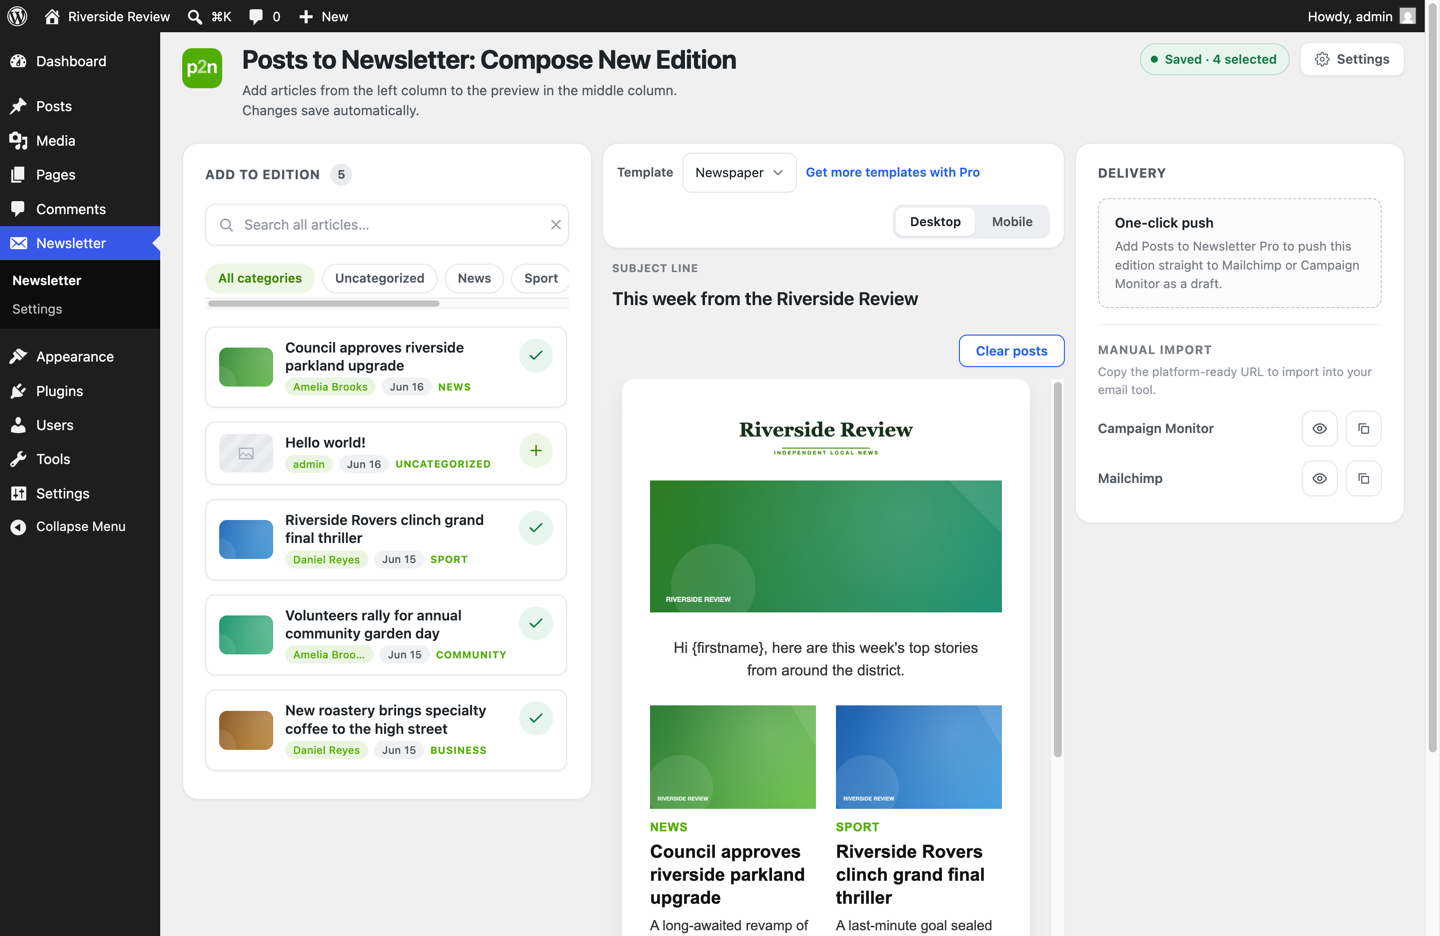
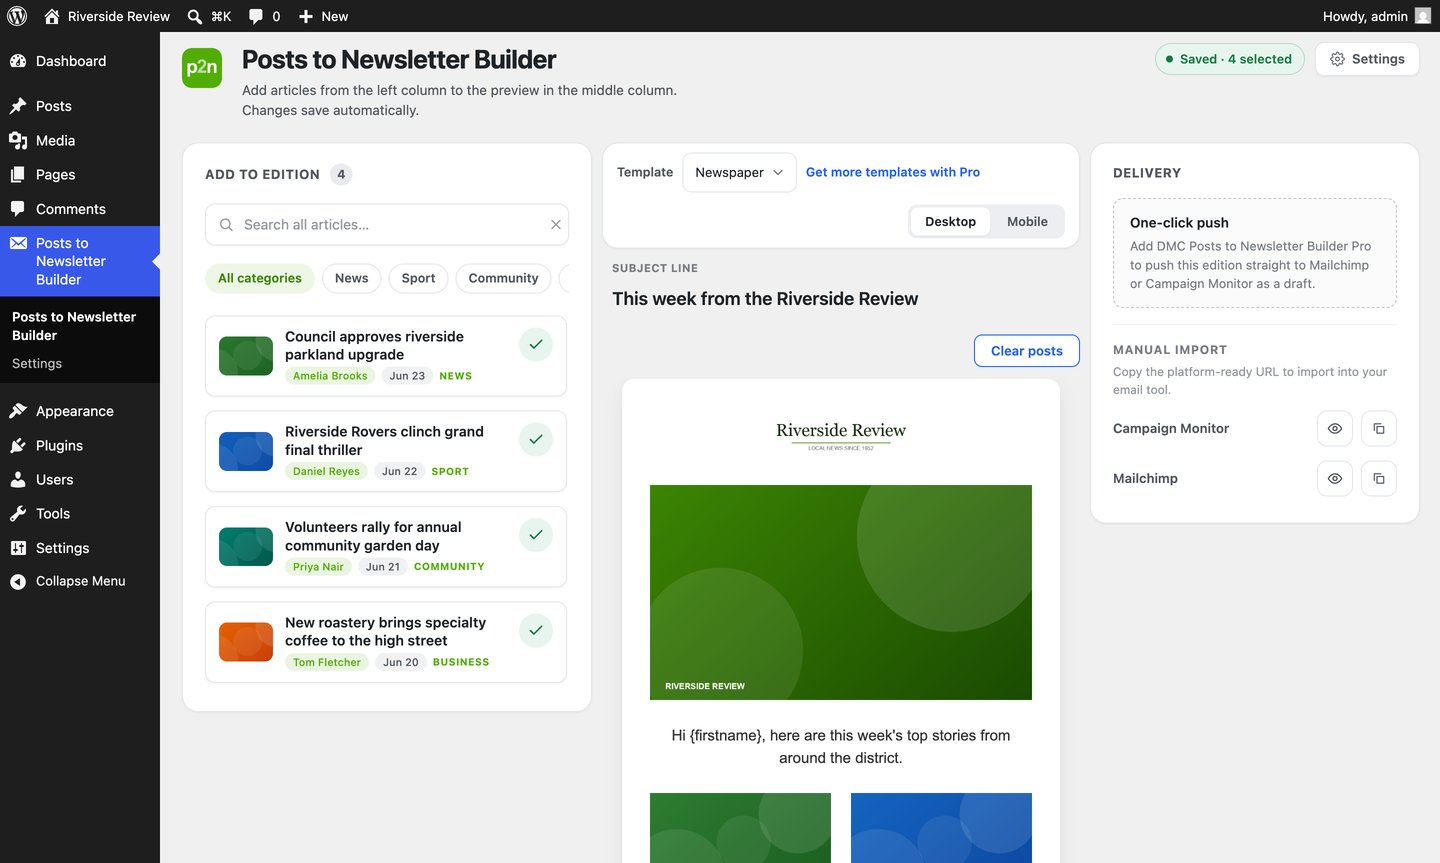
Release 1.0.1: header URIs, readme tidy, refreshed listing screenshots (#29)
- Bump version to 1.0.1 (header, VERSION const, readme Stable tag)
- Add Author URI and License URI to the plugin header
- Remove em dashes from readme.txt and README.md
- Add 1.0.1 changelog and upgrade notice entries
- Regenerate the three .org listing screenshots from the current UI
  (fictional demo content, no local host references)

diff --git a/posts-to-newsletter.php b/posts-to-newsletter.php
@@ -3,11 +3,13 @@
  * Plugin Name:       DMC Posts to Newsletter Builder
  * Plugin URI:        https://dmcweb.com.au
  * Description:       Hand-pick and order your posts into a branded HTML email, then preview a platform-ready newsletter to import into Mailchimp or Campaign Monitor.
- * Version:           1.0.0
+ * Version:           1.0.1
  * Requires at least: 6.0
  * Requires PHP:      8.0
  * Author:            DMC Web
+ * Author URI:        https://dmcweb.com.au
  * License:           GPL-2.0-or-later
+ * License URI:       https://www.gnu.org/licenses/gpl-2.0.html
  * Text Domain:       dmc-posts-to-newsletter-builder
  *
  * @package PostsToNewsletter
@@ -17,7 +19,7 @@ namespace PostsToNewsletter;
 
 defined( 'ABSPATH' ) || exit;
 
-const VERSION = '1.0.0';
+const VERSION = '1.0.1';
 
 define( 'PostsToNewsletter\\FILE', __FILE__ );
 define( 'PostsToNewsletter\\DIR', plugin_dir_path( __FILE__ ) );

diff --git a/README.md b/README.md
@@ -28,7 +28,7 @@ Copy this folder into `wp-content/plugins/` and activate it from the **Plugins**
 
 1. **Newsletter** (admin menu) → search and add articles, drag to order.
 2. **Newsletter → Settings** → set branding, sender details and the article image size.
-3. Copy a platform-ready preview URL (below) and import it into your email platform — or install **DMC Posts to Newsletter Builder Pro** to push a draft in one click.
+3. Copy a platform-ready preview URL (below) and import it into your email platform, or install **DMC Posts to Newsletter Builder Pro** to push a draft in one click.
 
 ## Render endpoint
 
